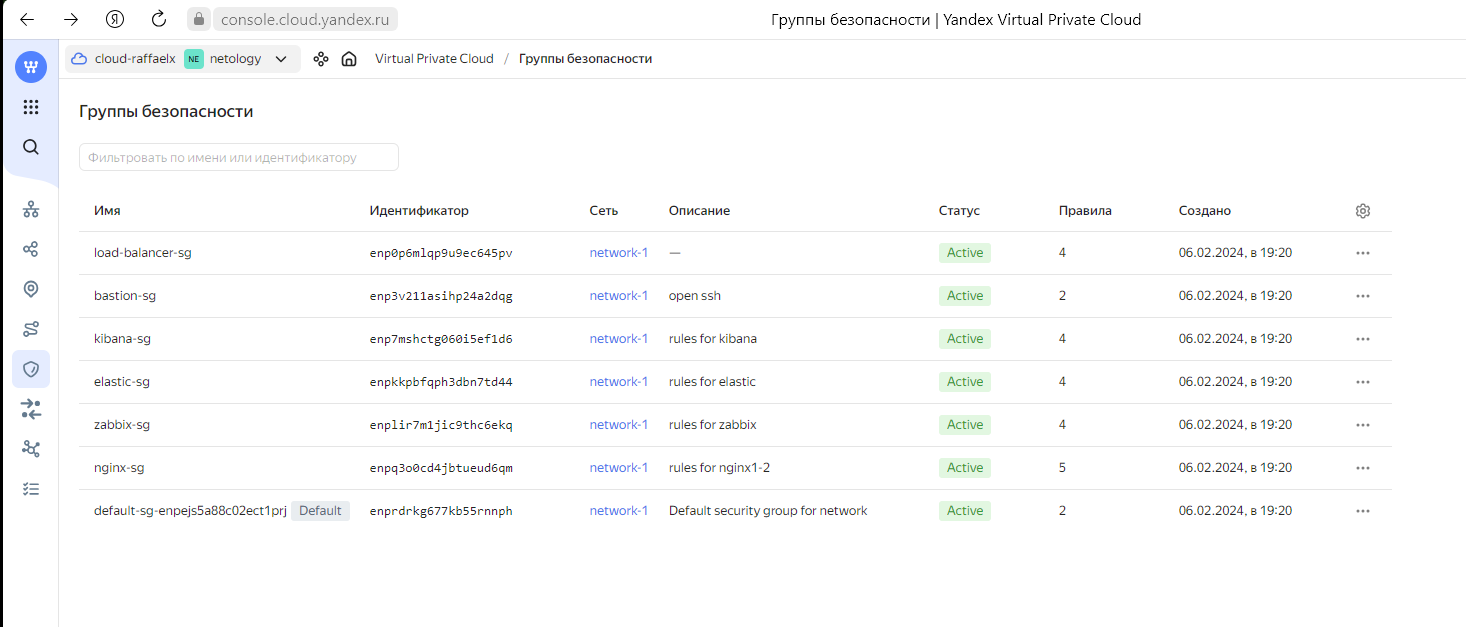
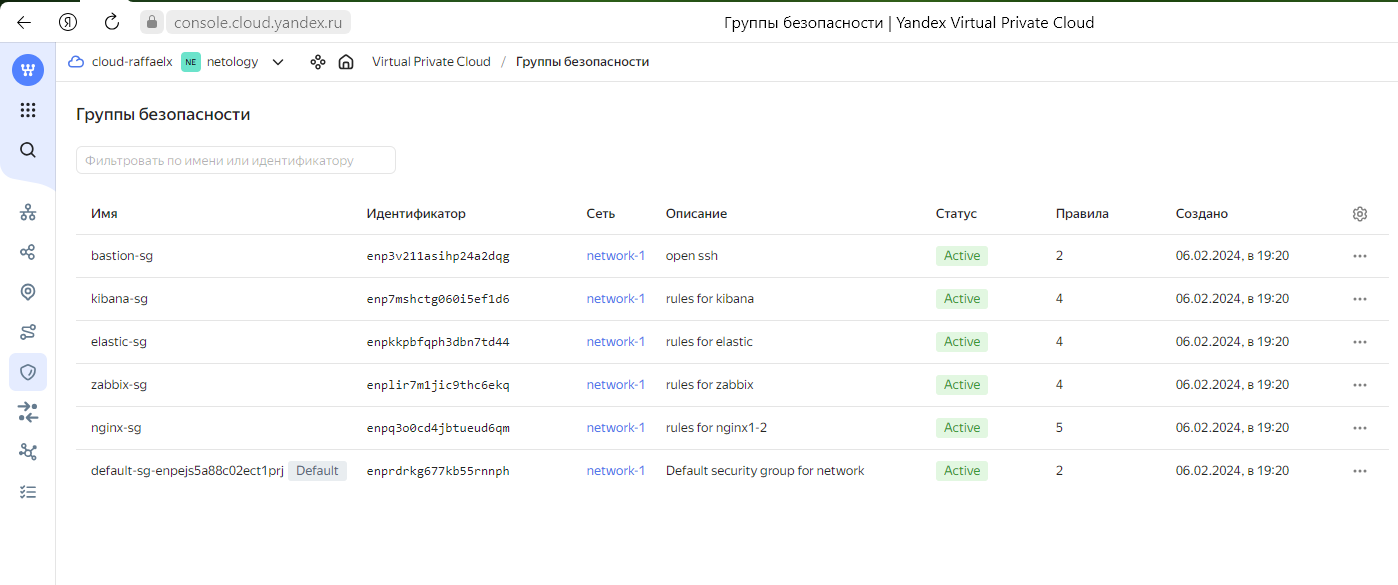
add img 2

diff --git a/_diplom/README.md b/_diplom/README.md
@@ -35,7 +35,7 @@
 <details>
 <summary> Скриншот(-ы) </summary>
 
-![08_20Network](https://github.com/RaffaelX/sys-gitlab-hw/blob/main/_diplom/img/08_%20Network.PNG)
+![Image not found: https://github.com/RaffaelX/sys-gitlab-hw/blob/main/_diplom/img/08_%20Network.PNG](https://github.com/RaffaelX/sys-gitlab-hw/blob/main/_diplom/img/08_%20Network.PNG "Image not found: https://github.com/RaffaelX/sys-gitlab-hw/blob/main/_diplom/img/08_%20Network.PNG")
 
 </details>
 
@@ -44,11 +44,26 @@
 <details>
 <summary> Скриншот(-ы) </summary>
 
-![08_20Network](https://github.com/RaffaelX/sys-gitlab-hw/blob/main/_diplom/img/08_%20Network.PNG)
+![10_20NetMap_1](https://github.com/RaffaelX/sys-gitlab-hw/blob/main/_diplom/img/10_%20NetMap_1.PNG)
+
+![Image not found: https://github.com/RaffaelX/sys-gitlab-hw/blob/main/_diplom/img/10_%20NetMap_2.PNG](https://github.com/RaffaelX/sys-gitlab-hw/blob/main/_diplom/img/10_%20NetMap_2.PNG "Image not found: https://github.com/RaffaelX/sys-gitlab-hw/blob/main/_diplom/img/10_%20NetMap_2.PNG")
 
 </details>
 
+#### 1.4 Группы безопасности соответствующих сервисов на входящий трафик только к нужным портам
 
+- bastion-sg (доступ открыт на 22 порт)
+- elastic-sg (доступ открыт на 22, 10050, 9200 порты)
+- kibana-sg (доступ открыт на 22, 10050, 5601 порты)
+- nginx-sg (доступ открыт на 22, 80, 10050 порты)
+- zabix-sg (доступ на 22, 8080, 10051 порты)
+
+<details>
+<summary> Скриншот(-ы) </summary>
+
+![09_20SG](https://github.com/RaffaelX/sys-gitlab-hw/blob/main/_diplom/img/09_%20SG.PNG)
+
+</details>
 
 
 
